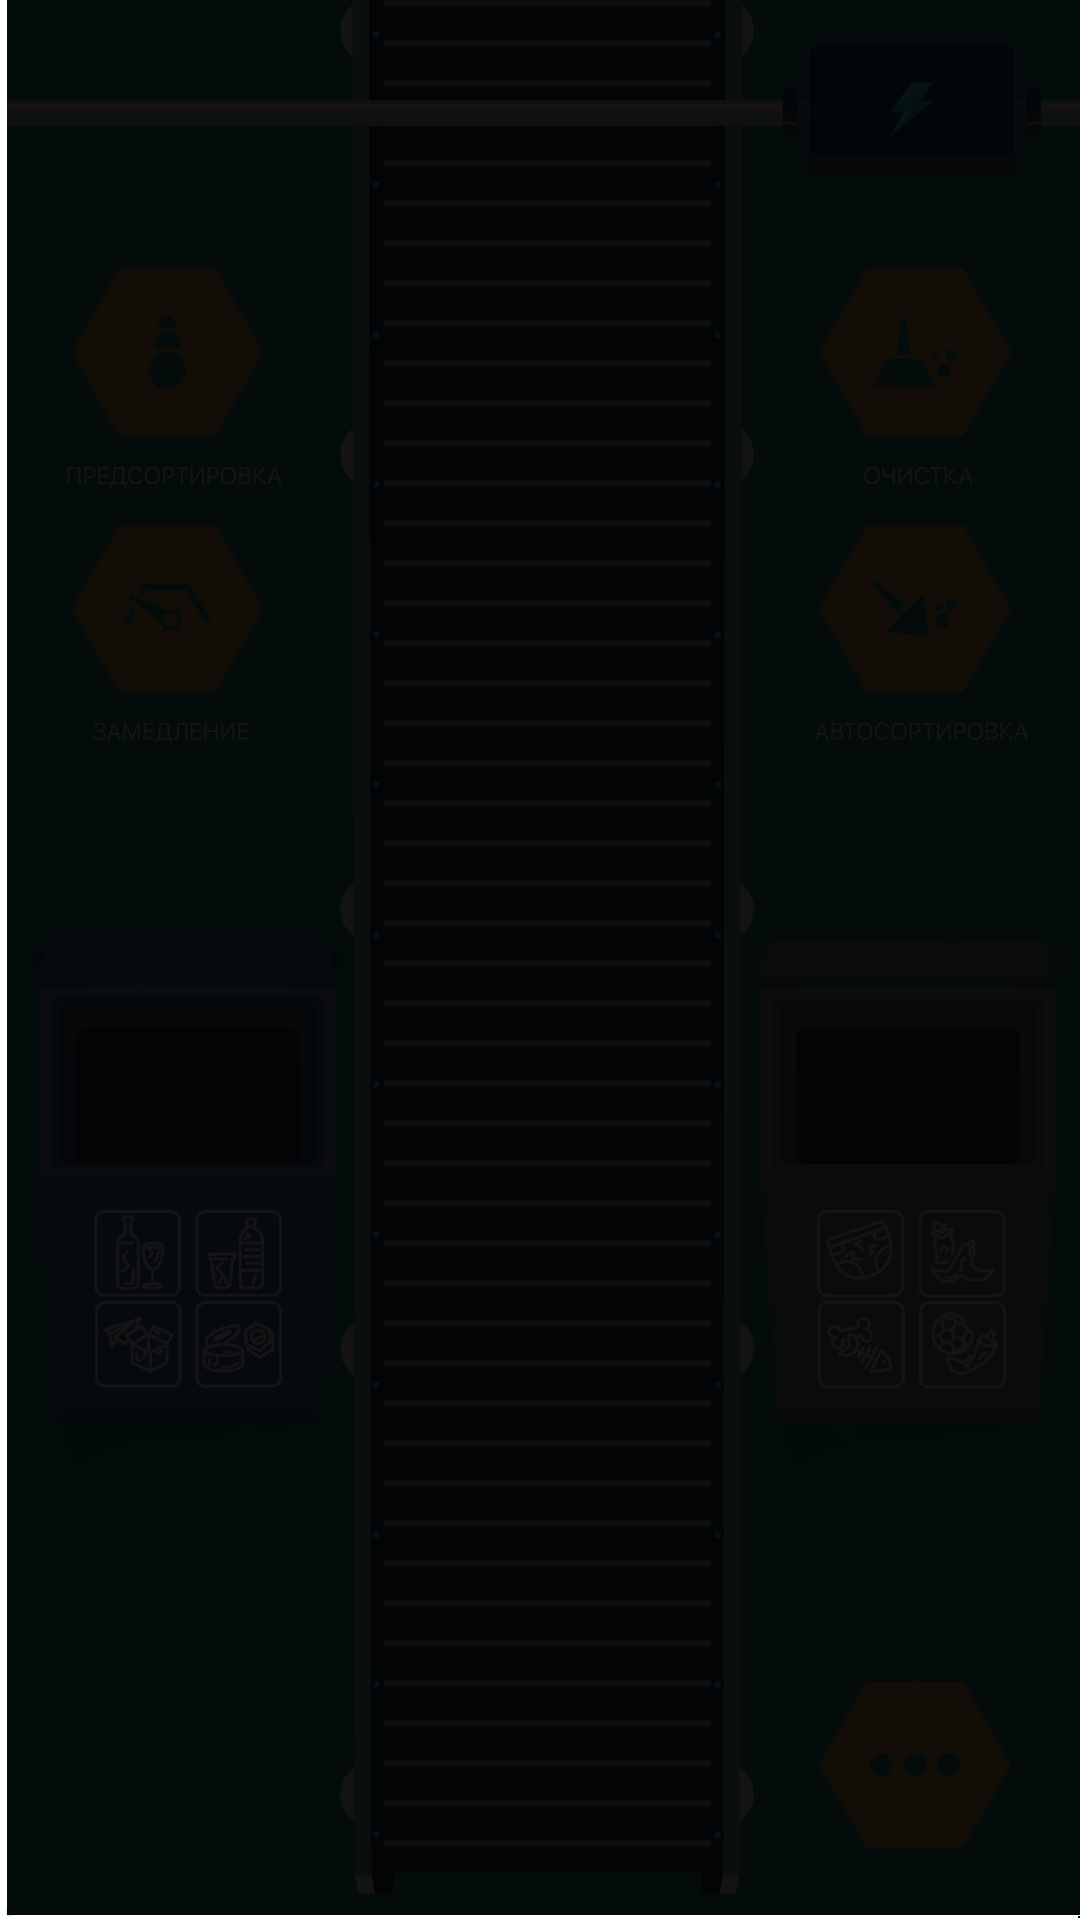
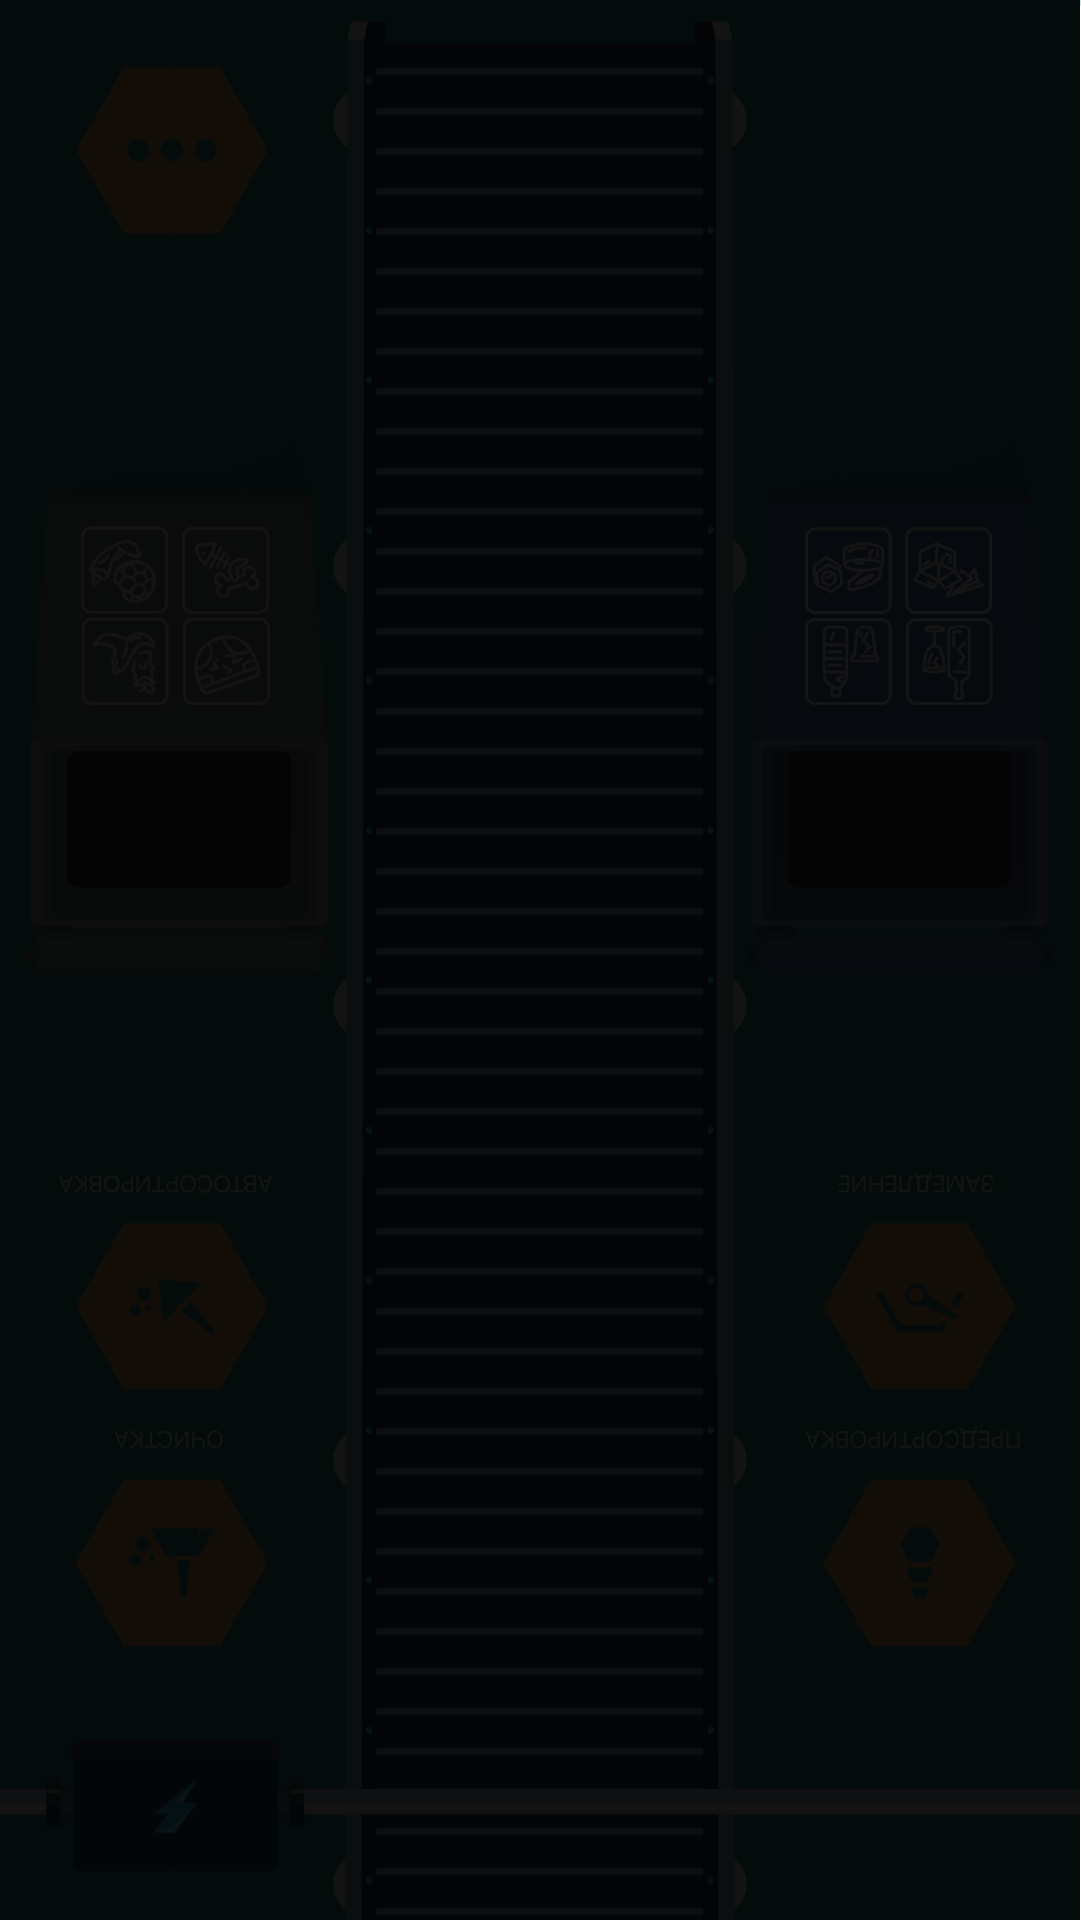
add new tut3 and tut4

Changed region(s): [[0.0, 0.0, 0.0306, 1.0], [0.9778, 0.9844, 1.0, 1.0]]

diff --git a/public/lib/tutorialScene2.js b/public/lib/tutorialScene2.js
@@ -10,6 +10,14 @@ var trash1;
 var trash2;
 var trash3;
 
+var textTypeTrash1;
+var textTypeTrash2;
+var textTypeTrash3;
+var textTypeTrash4;
+
+var bak_top;
+var bak_bottom;
+
 var Tutorial2 = new Phaser.Class({
 
     Extends: Phaser.Scene,
@@ -50,6 +58,19 @@ var Tutorial2 = new Phaser.Class({
         //2
         this.load.image('middle2', 'tutorial/tut2/middle.png');
         this.load.image('top2', 'tutorial/tut2/top.png');
+        //3
+        this.load.image('bottom3', 'tutorial/tut3/bottom.png');
+        this.load.image('top3', 'tutorial/tut3/top.png');
+        this.load.image('glass', 'tutorial/tut3/glass.png');
+        this.load.image('metal', 'tutorial/tut3/metal.png');
+        this.load.image('plastic', 'tutorial/tut3/plastic.png');
+        this.load.image('paper', 'tutorial/tut3/paper.png');
+        //4
+        this.load.image('top4', 'tutorial/tut4/top.png');
+        this.load.image('food', 'tutorial/tut4/food.png');
+        this.load.image('clothing2', 'tutorial/tut4/clothing2.png');
+        this.load.image('recyclables4', 'tutorial/tut4/recyclables4.png');
+        this.load.image('waste', 'tutorial/tut4/waste3.png');
 
     },
 
@@ -90,12 +111,7 @@ var Tutorial2 = new Phaser.Class({
                         this.scene.start('mainSc', {name: 'Move from Tutorial to Main'});
                     }
                     numTut++;
-                    textTop.destroy();
-                    textMiddle.destroy();
-                    textBottom.destroy();
-                    trash1.destroy();
-                    trash2.destroy();
-                    trash3.destroy();
+                    clearTutScene();
                     createNewTut(this);
                 }
             }, this);
@@ -113,12 +129,7 @@ var Tutorial2 = new Phaser.Class({
                         this.scene.start('logo', {name: 'Move from Tutorial to Logo'});
                     }
                     numTut--;
-                    textTop.destroy();
-                    textMiddle.destroy();
-                    textBottom.destroy();
-                    trash1.destroy();
-                    trash2.destroy();
-                    trash3.destroy();
+                    clearTutScene();
                     createNewTut(this);
                 }
             }, this);
@@ -187,6 +198,7 @@ var Tutorial2 = new Phaser.Class({
                     alpha: 1,
                     ease: 'Linear',
                     duration: 2500,
+
                 });
                 textMiddle = tutScene.add.sprite(midle_window,  bg.height * 0.25, 'middle' + numTut).setOrigin(0.5, 0.5)
                     .setScale(global_scale * 0.45).setAlpha(0);
@@ -197,12 +209,124 @@ var Tutorial2 = new Phaser.Class({
                     duration: 2500,
                     delay: 2500
                 });
-                createTrash(tutScene, 1);
+                createTrashForTut2(tutScene, 1);
             }
             if(numTut === 3){
+                textTop = tutScene.add.sprite(midle_window,  bg.height * 0.4, 'top' + numTut).setOrigin(0.5, 0.5)
+                    .setScale(global_scale * 0.45).setAlpha(0.1).setDepth(10);
+                tutScene.tweens.add({
+                    targets: textTop,
+                    alpha: 1,
+                    ease: 'Linear',
+                    duration: 2000,
+                    onComplete: function () {
+                        debugger
+                        createTrashForTut3(tutScene, 1);
+                    },
+                });
+                textBottom = tutScene.add.sprite(midle_window,  bg.height * 0.8, 'bottom' + numTut).setOrigin(0.5, 0.5)
+                    .setScale(global_scale * 0.45).setAlpha(0);
+                tutScene.tweens.add({
+                    targets: textBottom,
+                    alpha: 1,
+                    ease: 'Linear',
+                    duration: 1700,
+                    delay: 17000
+                });
+                textTypeTrash1 = tutScene.add.sprite(midle_window,  bg.height * 0.57, 'glass')
+                    .setScale(global_scale * 0.45).setAlpha(0);
+                tutScene.tweens.add({
+                    targets: textTypeTrash1,
+                    alpha: 1,
+                    ease: 'Linear',
+                    duration: 1000,
+                    delay: 2500
+                });
+                textTypeTrash2 = tutScene.add.sprite(midle_window,  bg.height * 0.6, 'paper')
+                    .setScale(global_scale * 0.45).setAlpha(0);
+                tutScene.tweens.add({
+                    targets: textTypeTrash2,
+                    alpha: 1,
+                    ease: 'Linear',
+                    duration: 1000,
+                    delay: 6500
+                });
+                textTypeTrash3 = tutScene.add.sprite(midle_window,  bg.height * 0.65, 'plastic')
+                    .setScale(global_scale * 0.45).setAlpha(0);
+                tutScene.tweens.add({
+                    targets: textTypeTrash3,
+                    alpha: 1,
+                    ease: 'Linear',
+                    duration: 1000,
+                    delay: 10500
+                });
+                textTypeTrash4 = tutScene.add.sprite(midle_window,  bg.height * 0.7, 'metal')
+                    .setScale(global_scale * 0.45).setAlpha(0);
+                tutScene.tweens.add({
+                    targets: textTypeTrash4,
+                    alpha: 1,
+                    ease: 'Linear',
+                    duration: 1000,
+                    delay: 14500
+                });
+                bak_top = tutScene.add.sprite(midle_window - bg_width * 0.5, GLOBAL_HEIGHT / 1.65, 'blue1')
+                    .setOrigin(-0.05, 1).setScale(global_scale);
+                bak_bottom = tutScene.add.sprite(midle_window - bg_width * 0.5, GLOBAL_HEIGHT / 1.65, 'blue2') // trash2 = низ бака, чтобы не заводить новую переменную
+                    .setOrigin(-0.05, 0).setScale(global_scale).setDepth(9);
 
             }
             if(numTut === 4){
+                textTop = tutScene.add.sprite(midle_window,  bg.height * 0.4, 'top' + numTut).setOrigin(0.5, 0.5)
+                    .setScale(global_scale * 0.45).setAlpha(0.1).setDepth(10);
+                tutScene.tweens.add({
+                    targets: textTop,
+                    alpha: 1,
+                    ease: 'Linear',
+                    duration: 2000,
+                    onComplete: function () {
+                        createTrashForTut4(tutScene, 1);
+                    },
+                });
+                textTypeTrash1 = tutScene.add.sprite(midle_window - bg.width/8,  bg.height * 0.56, 'food')
+                    .setScale(global_scale * 0.45).setAlpha(0).setOrigin(0, 1);
+                tutScene.tweens.add({
+                    targets: textTypeTrash1,
+                    alpha: 1,
+                    ease: 'Linear',
+                    duration: 1000,
+                    delay: 2500
+                });
+                textTypeTrash2 = tutScene.add.sprite(midle_window - bg.width/8,  bg.height * 0.58, 'clothing2')
+                    .setScale(global_scale * 0.45).setAlpha(0).setOrigin(0, 1);
+                tutScene.tweens.add({
+                    targets: textTypeTrash2,
+                    alpha: 1,
+                    ease: 'Linear',
+                    duration: 1000,
+                    delay: 6500
+                });
+                textTypeTrash3 = tutScene.add.sprite(midle_window - bg.width/8,  bg.height * 0.65, 'waste')
+                    .setScale(global_scale * 0.45).setAlpha(0).setOrigin(0, 1);
+                tutScene.tweens.add({
+                    targets: textTypeTrash3,
+                    alpha: 1,
+                    ease: 'Linear',
+                    duration: 1000,
+                    delay: 10500
+                });
+                textTypeTrash4 = tutScene.add.sprite(midle_window - bg.width/8,  bg.height * 0.72, 'recyclables4')
+                    .setScale(global_scale * 0.45).setAlpha(0).setOrigin(0, 1);
+                tutScene.tweens.add({
+                    targets: textTypeTrash4,
+                    alpha: 1,
+                    ease: 'Linear',
+                    duration: 1000,
+                    delay: 14500
+                });
+                bak_top = tutScene.add.sprite(midle_window + bg_width * 0.5, GLOBAL_HEIGHT / 1.65, 'grey1')
+                    .setOrigin(1.05, 1).setScale(global_scale);
+                bak_bottom = tutScene.add.sprite(midle_window + bg_width * 0.5, GLOBAL_HEIGHT / 1.65, 'grey2') // trash2 = низ бака, чтобы не заводить новую переменную
+                    .setOrigin(1.05, 0).setScale(global_scale).setDepth(9);
 
             }
             if(numTut === 5){
@@ -215,28 +339,102 @@ var Tutorial2 = new Phaser.Class({
 
             }
         }
-        function createTrash(scene, trashNum){
+        function createTrashForTut2(scene, trashNum){
+            if(numTut !== 2)
+                return;
             var trashKey = getRandomInt(1,20);
             var trashType = getRandomInt(1,2)===1?'g':'b';
             if(trashNum === 1){
-                trash3 = scene.add.sprite(midle_window,  bg.height * 0.25, trashType + trashKey).setOrigin(0.5, 0.5)
+                trash1 = scene.add.sprite(midle_window,  bg.height * 0.25, trashType + trashKey).setOrigin(0.5, 0.5)
                     .setScale(global_scale * 0.45).setAlpha(1);
             }else{
-                trash3 = scene.add.sprite(midle_window,  bg.height * 0.38, trashType + trashKey).setOrigin(0.5, 0.5)
+                trash1 = scene.add.sprite(midle_window,  bg.height * 0.38, trashType + trashKey).setOrigin(0.5, 0.5)
                     .setScale(global_scale * 0.45).setAlpha(1);
             }
             scene.tweens.add({
-                targets: trash3,
+                targets: trash1,
                 x: midle_window,
                 y: GLOBAL_HEIGHT * 0.9,
                 alpha: 0.3,
                 ease: 'Linear',
                 duration: 3500,
                 onComplete: function () {
-                    trash3.destroy();
-                    createTrash(scene, 2);
+                    trash1.destroy();
+                    createTrashForTut2(scene, 2);
                 },
             });
+        }
+        function createTrashForTut3(scene, trashNum){
+            if(numTut !== 3)
+                return;
+            var trashKey = trashNum === 1 ? 'b4' :  trashNum === 2 ? 'b9' :  trashNum === 3 ? 'b6' :  trashNum === 4 ? 'b8' : 'b' + getRandomInt(1, 20);
+
+            trash3 = scene.add.sprite(midle_window,  bg.height * 0.3,  trashKey).setOrigin(0.5, 0.5)
+                .setScale(global_scale * 0.45).setAlpha(1).setDepth(5);
+            trashNum++;
+            scene.tweens.add({
+                targets: trash3,
+                x: bak_bottom.x + bak_bottom.width,
+                y: bak_bottom.y,
+                scaleX: 0.5,
+                scaleY: 0.5,
+                ease: 'Linear',
+                duration: 3000,
+                delay: 1000,
+                onComplete: function () {
+                    trash3.destroy();
+                    createTrashForTut3(scene, trashNum);
+                },
+            });
+        }
+        function createTrashForTut4(scene, trashNum){
+            if(numTut !== 4)
+                return;
+            var trashKey = trashNum === 1 ? 'g11' :  trashNum === 2 ? 'g6' :  trashNum === 3 ? 'g9' :  trashNum === 4 ? 'g5' : 'g' + getRandomInt(1, 20);
+
+            trash3 = scene.add.sprite(midle_window,  bg.height * 0.3,  trashKey).setOrigin(0.5, 0.5)
+                .setScale(global_scale * 0.45).setAlpha(1).setDepth(5);
+            trashNum++;
+            scene.tweens.add({
+                targets: trash3,
+                x: bak_bottom.x - bak_bottom.width,
+                y: bak_bottom.y,
+                scaleX: 0.5,
+                scaleY: 0.5,
+                ease: 'Linear',
+                duration: 3000,
+                delay: 1000,
+                onComplete: function () {
+                    trash3.destroy();
+                    createTrashForTut4(scene, trashNum);
+                },
+            });
+        }
+        function clearTutScene() {
+            if(textTop)
+                textTop.destroy();
+            if(textMiddle)
+                textMiddle.destroy();
+            if(textBottom)
+                textBottom.destroy();
+            if(trash1)
+                trash1.destroy();
+            if(trash2)
+                trash2.destroy();
+            if(trash3)
+                trash3.destroy();
+            if(textTypeTrash1)
+                textTypeTrash1.destroy();
+            if(textTypeTrash2)
+                textTypeTrash2.destroy();
+            if(textTypeTrash3)
+                textTypeTrash3.destroy();
+            if(textTypeTrash4)
+                textTypeTrash4.destroy();
+            if(bak_bottom)
+                bak_bottom.destroy();
+            if(bak_top)
+                bak_top.destroy();
         }
         var bg_clone = this.add.sprite(midle_window, 0, 'bg_clone').setOrigin(0.5, 0).setDepth(20).setScale(global_scale);
         var rotate = this.add.sprite(midle_window, midle_window_h, 'rotate').setOrigin(0.5, 0.5).setDepth(21).setScale(3 * global_scale);
